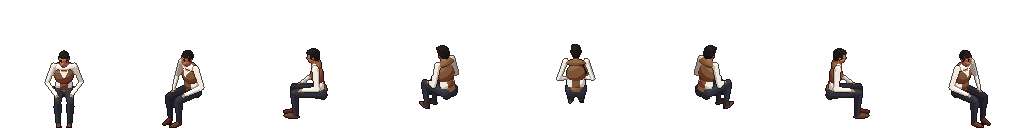
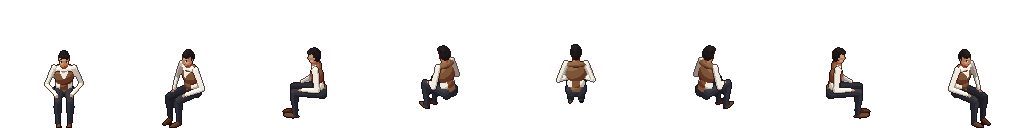
rig1 zombie fix: raj rebuilt upright with the new face/posture/walk/idle (audit 0, armcheck ok)

diff --git a/characters/raj/qa_report.md b/characters/raj/qa_report.md
@@ -1,16 +1,16 @@
 # QA report: chr_raj
 
-Generated 2026-10-30 17:59 (America/Los_Angeles) by tools/build_char_sheet.py + tools/qa_char.py.
+Generated 2026-10-30 18:45 (America/Los_Angeles) by tools/build_char_sheet.py + tools/qa_char.py.
 
 | Check | Result |
 |---|---|
 | Frame / pivot | 128x128, pivot (64,116) |
-| Body height (spec 92 px, head top y=24) | idle S head top y=24 -> 92 px (PASS) |
-| Feet on pivot line (idle, painted dirs; lowest row 116-122, house convention 119-121) | PASS (lowest px 118) |
+| Body height (spec 92 px, head top y=24) | idle S head top y=23 -> 93 px (PASS) |
+| Feet on pivot line (idle, painted dirs; lowest row 116-122, house convention 119-121) | CHECK (lowest px 119) |
 | Palette violations | 0 (PASS) |
 | Alpha values | [0, 255] |
 | Frames / sheet | 352 frames, 2048x2816 |
 | Animations | idle 8f@4fps x8D, walk 8f@10fps x8D, blink 3f@12fps x8D, work 6f@8fps x8D, talk 4f@6fps x8D, gesture 6f@8fps x8D, astronomy_point 4f@8fps x8D, shy_hands 5f@6fps x8D |
-| Mirrors (NE/E/SE = flip NW/W/SW) | NE: silhouette DIFF, 866 px re-evaluated, E: silhouette DIFF, 676 px re-evaluated, SE: silhouette DIFF, 825 px re-evaluated |
+| Mirrors (NE/E/SE = flip NW/W/SW) | NE: silhouette DIFF, 900 px re-evaluated, E: silhouette DIFF, 713 px re-evaluated, SE: silhouette DIFF, 897 px re-evaluated |
 | Eye pixels in idle S | 0 |
 | GIFs | astronomy_point_8dir_4x.gif (5f), blink_8dir_4x.gif (4f), gesture_8dir_4x.gif (7f), idle_8dir_4x.gif (8f), shy_hands_8dir_4x.gif (6f), talk_8dir_4x.gif (4f), walk_8dir_4x.gif (8f), walk_E_4x.gif (8f), walk_NE_4x.gif (8f), walk_NW_4x.gif (8f), walk_N_4x.gif (8f), walk_SE_4x.gif (8f), walk_SW_4x.gif (8f), walk_S_4x.gif (8f), walk_W_4x.gif (8f), work_8dir_4x.gif (6f) |
